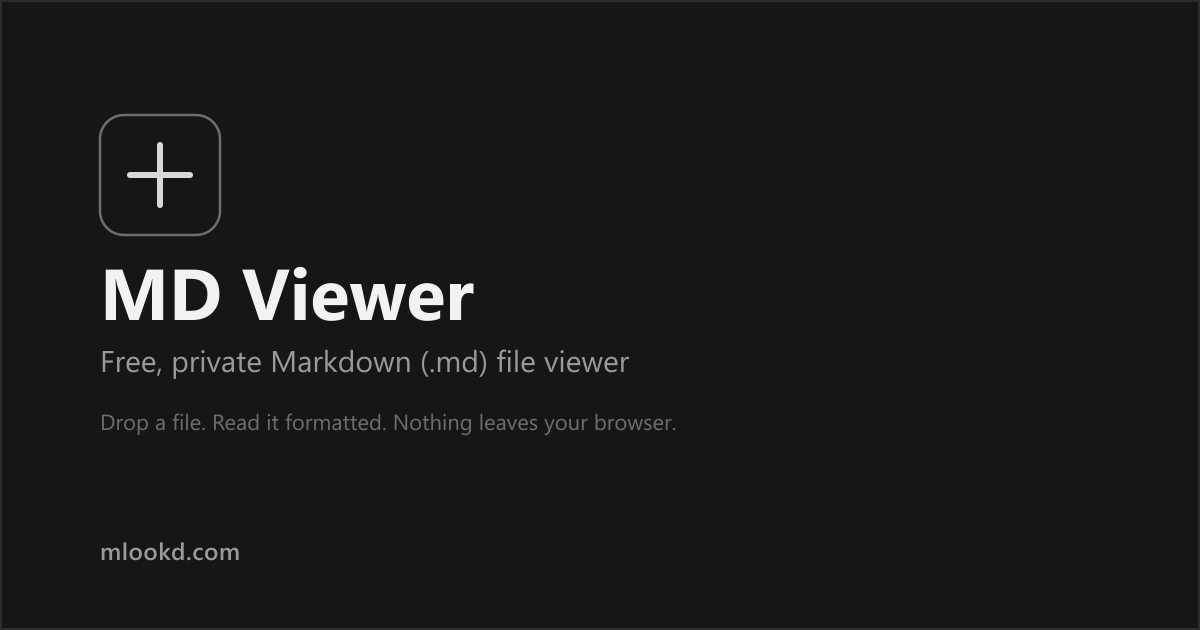
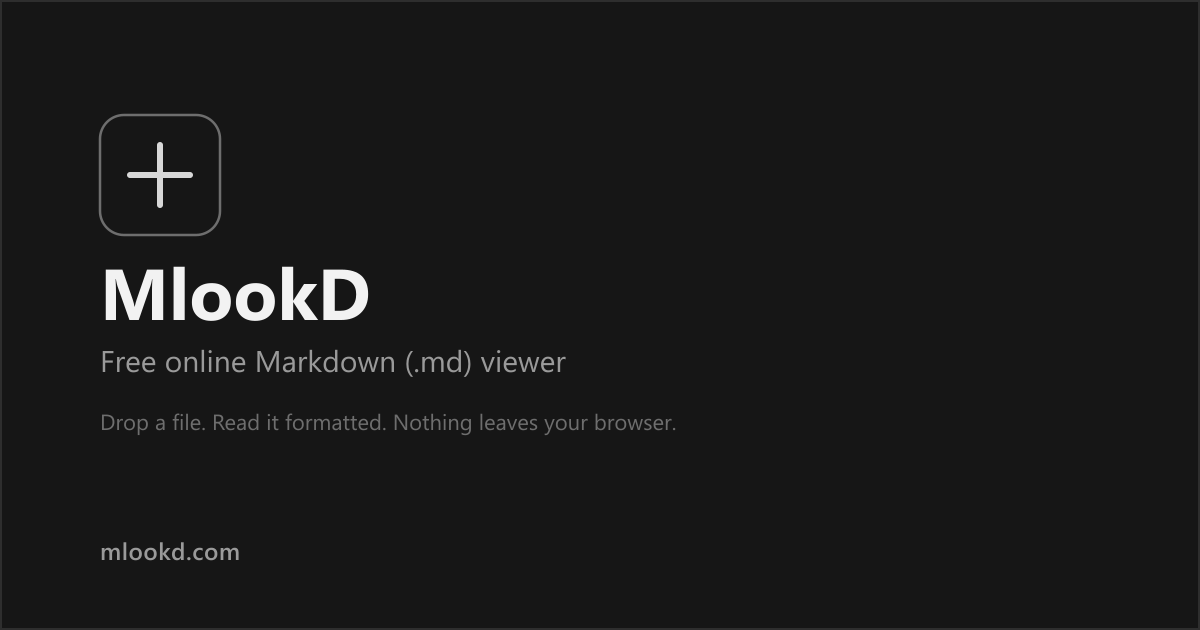
Rebrand to MlookD, sharpen SEO copy with search-intent keywords
- Title/H1/OG/Twitter/JSON-LD/manifest/llms.txt now use the product
  name "MlookD" (with "MD Viewer" kept as schema.org alternateName
  and in llms.txt, since that's still a common generic search term).
- Rewrote descriptions to lead with the terms people actually search
  for a tool like this: "free online Markdown (.md) viewer", listing
  concrete rendered features (tables, code blocks, images) and the
  no-upload/no-install/no-sign-up angle.
- llms.txt explicitly notes MlookD is a viewer, not an editor, so AI
  answer engines don't misrepresent capabilities to searchers looking
  for an online Markdown editor.
- Regenerated the OG social preview image with the new brand name.

Changed region(s): [[0.1233, 0.5429, 0.5242, 0.6032], [0.1233, 0.4222, 0.4008, 0.5127]]

diff --git a/index.html b/index.html
@@ -7,10 +7,10 @@
     <link rel="manifest" href="/site.webmanifest" />
     <meta name="viewport" content="width=device-width, initial-scale=1.0" />
 
-    <title>MD Viewer — Free Online Markdown (.md) File Viewer</title>
+    <title>MlookD — Free Online Markdown (.md) Viewer</title>
     <meta
       name="description"
-      content="Preview any Markdown (.md) file instantly in your browser. Drop or choose a file to render GitHub-flavored Markdown — headings, tables, code blocks, links, images — with dark mode and a chapter sidebar. Nothing is uploaded, saved, or tracked."
+      content="MlookD is a free online Markdown (.md) viewer. Drop or open a .md file to preview it instantly — headings, tables, code blocks, links, images — right in your browser. No upload, no install, no sign-up."
     />
     <link rel="canonical" href="https://mlookd.com/" />
     <meta name="robots" content="index, follow, max-image-preview:large" />
@@ -19,11 +19,11 @@
 
     <!-- Open Graph -->
     <meta property="og:type" content="website" />
-    <meta property="og:site_name" content="MD Viewer" />
-    <meta property="og:title" content="MD Viewer — Free Online Markdown (.md) File Viewer" />
+    <meta property="og:site_name" content="MlookD" />
+    <meta property="og:title" content="MlookD — Free Online Markdown (.md) Viewer" />
     <meta
       property="og:description"
-      content="Preview any Markdown (.md) file instantly in your browser. Nothing is uploaded, saved, or tracked — everything renders locally on your machine."
+      content="Free online Markdown (.md) viewer. Drop a file and preview it instantly — tables, code blocks, images. No upload, no install, no sign-up."
     />
     <meta property="og:url" content="https://mlookd.com/" />
     <meta property="og:image" content="https://mlookd.com/og-image.png" />
@@ -33,10 +33,10 @@
 
     <!-- Twitter -->
     <meta name="twitter:card" content="summary_large_image" />
-    <meta name="twitter:title" content="MD Viewer — Free Online Markdown (.md) File Viewer" />
+    <meta name="twitter:title" content="MlookD — Free Online Markdown (.md) Viewer" />
     <meta
       name="twitter:description"
-      content="Preview any Markdown (.md) file instantly in your browser. Nothing is uploaded, saved, or tracked."
+      content="Free online Markdown (.md) viewer. Drop a file and preview it instantly. No upload, no install, no sign-up."
     />
     <meta name="twitter:image" content="https://mlookd.com/og-image.png" />
 
@@ -45,9 +45,10 @@
       {
         "@context": "https://schema.org",
         "@type": "WebApplication",
-        "name": "MD Viewer",
+        "name": "MlookD",
+        "alternateName": "MD Viewer",
         "url": "https://mlookd.com/",
-        "description": "A free, client-only Markdown (.md) file viewer. Drop or choose a file to render it fully formatted in the browser, with dark mode and a chapter sidebar. Nothing is uploaded, saved, or cached — refreshing always returns to a blank slate.",
+        "description": "MlookD is a free, client-only Markdown (.md) viewer. Drop or choose a file to render it fully formatted in the browser, with dark mode and a chapter sidebar. Nothing is uploaded, saved, or cached — refreshing always returns to a blank slate.",
         "applicationCategory": "UtilitiesApplication",
         "operatingSystem": "Any",
         "browserRequirements": "Requires a modern browser with JavaScript enabled",
@@ -100,9 +101,9 @@
               stroke-linecap="round"
             />
           </svg>
-          <h1 class="empty-state__title">MD Viewer</h1>
+          <h1 class="empty-state__title">MlookD</h1>
           <p class="empty-state__hint">
-            Drop or choose your .md file to preview it instantly, fully formatted.
+            Free online Markdown (.md) viewer — drop or choose a file to preview it instantly.
           </p>
         </div>
         <div class="empty-state__footer">

diff --git a/src/components/EmptyState.tsx b/src/components/EmptyState.tsx
@@ -97,9 +97,9 @@ export default function EmptyState({ onFileSelected }: EmptyStateProps) {
             strokeLinecap="round"
           />
         </svg>
-        <h1 className="empty-state__title">MD Viewer</h1>
+        <h1 className="empty-state__title">MlookD</h1>
         <p className="empty-state__hint">
-          Drop or choose your .md file to preview it instantly, fully formatted.
+          Free online Markdown (.md) viewer — drop or choose a file to preview it instantly.
         </p>
         {error && <p className="empty-state__error">{error}</p>}
       </div>

diff --git a/README.md b/README.md
@@ -1,8 +1,8 @@
-# md-viewer
+# MlookD
 
 Live at **[mlookd.com](https://mlookd.com)**.
 
-A minimal, client-only Markdown viewer. Drop or choose a `.md` file and read it fully formatted — nothing is uploaded, saved, or cached. Refreshing the page always returns to a blank slate.
+A minimal, client-only Markdown (.md) viewer. Drop or choose a `.md` file and read it fully formatted — nothing is uploaded, saved, or cached. Refreshing the page always returns to a blank slate.
 
 ## Stack
 
